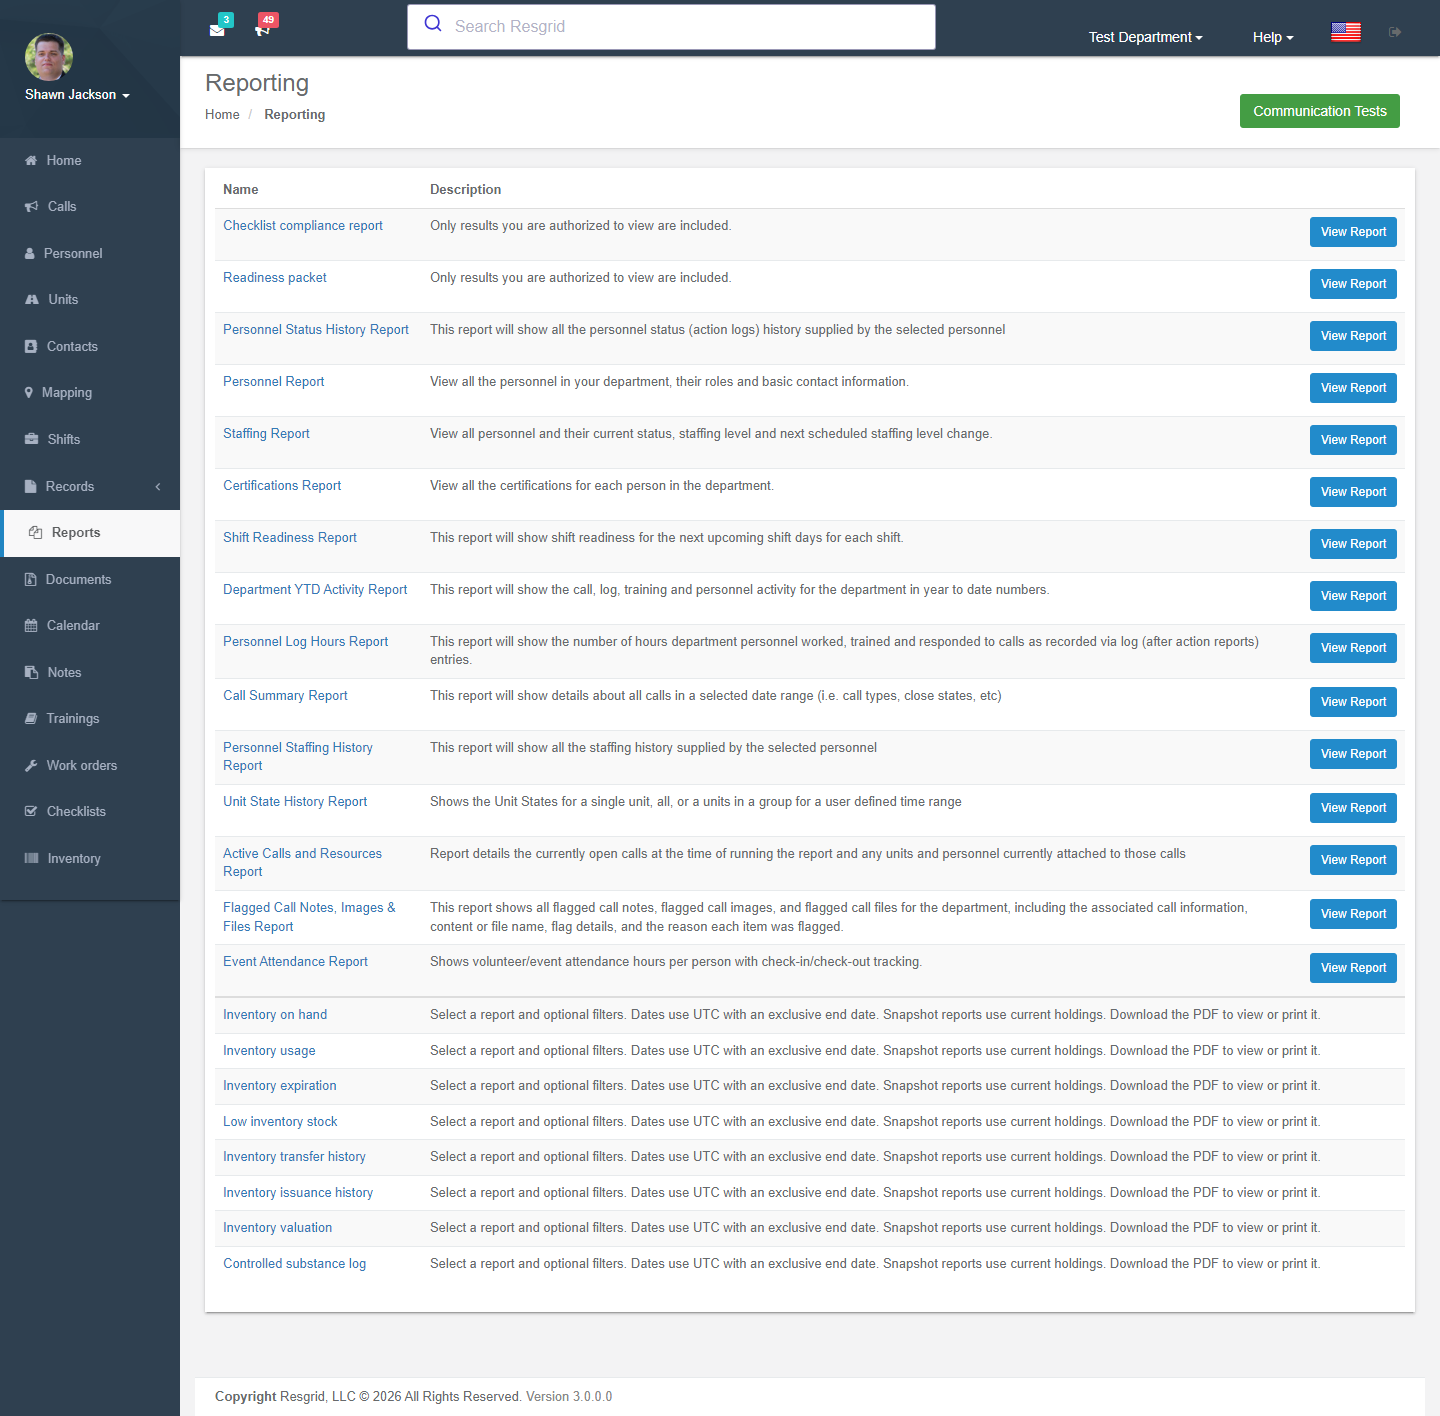
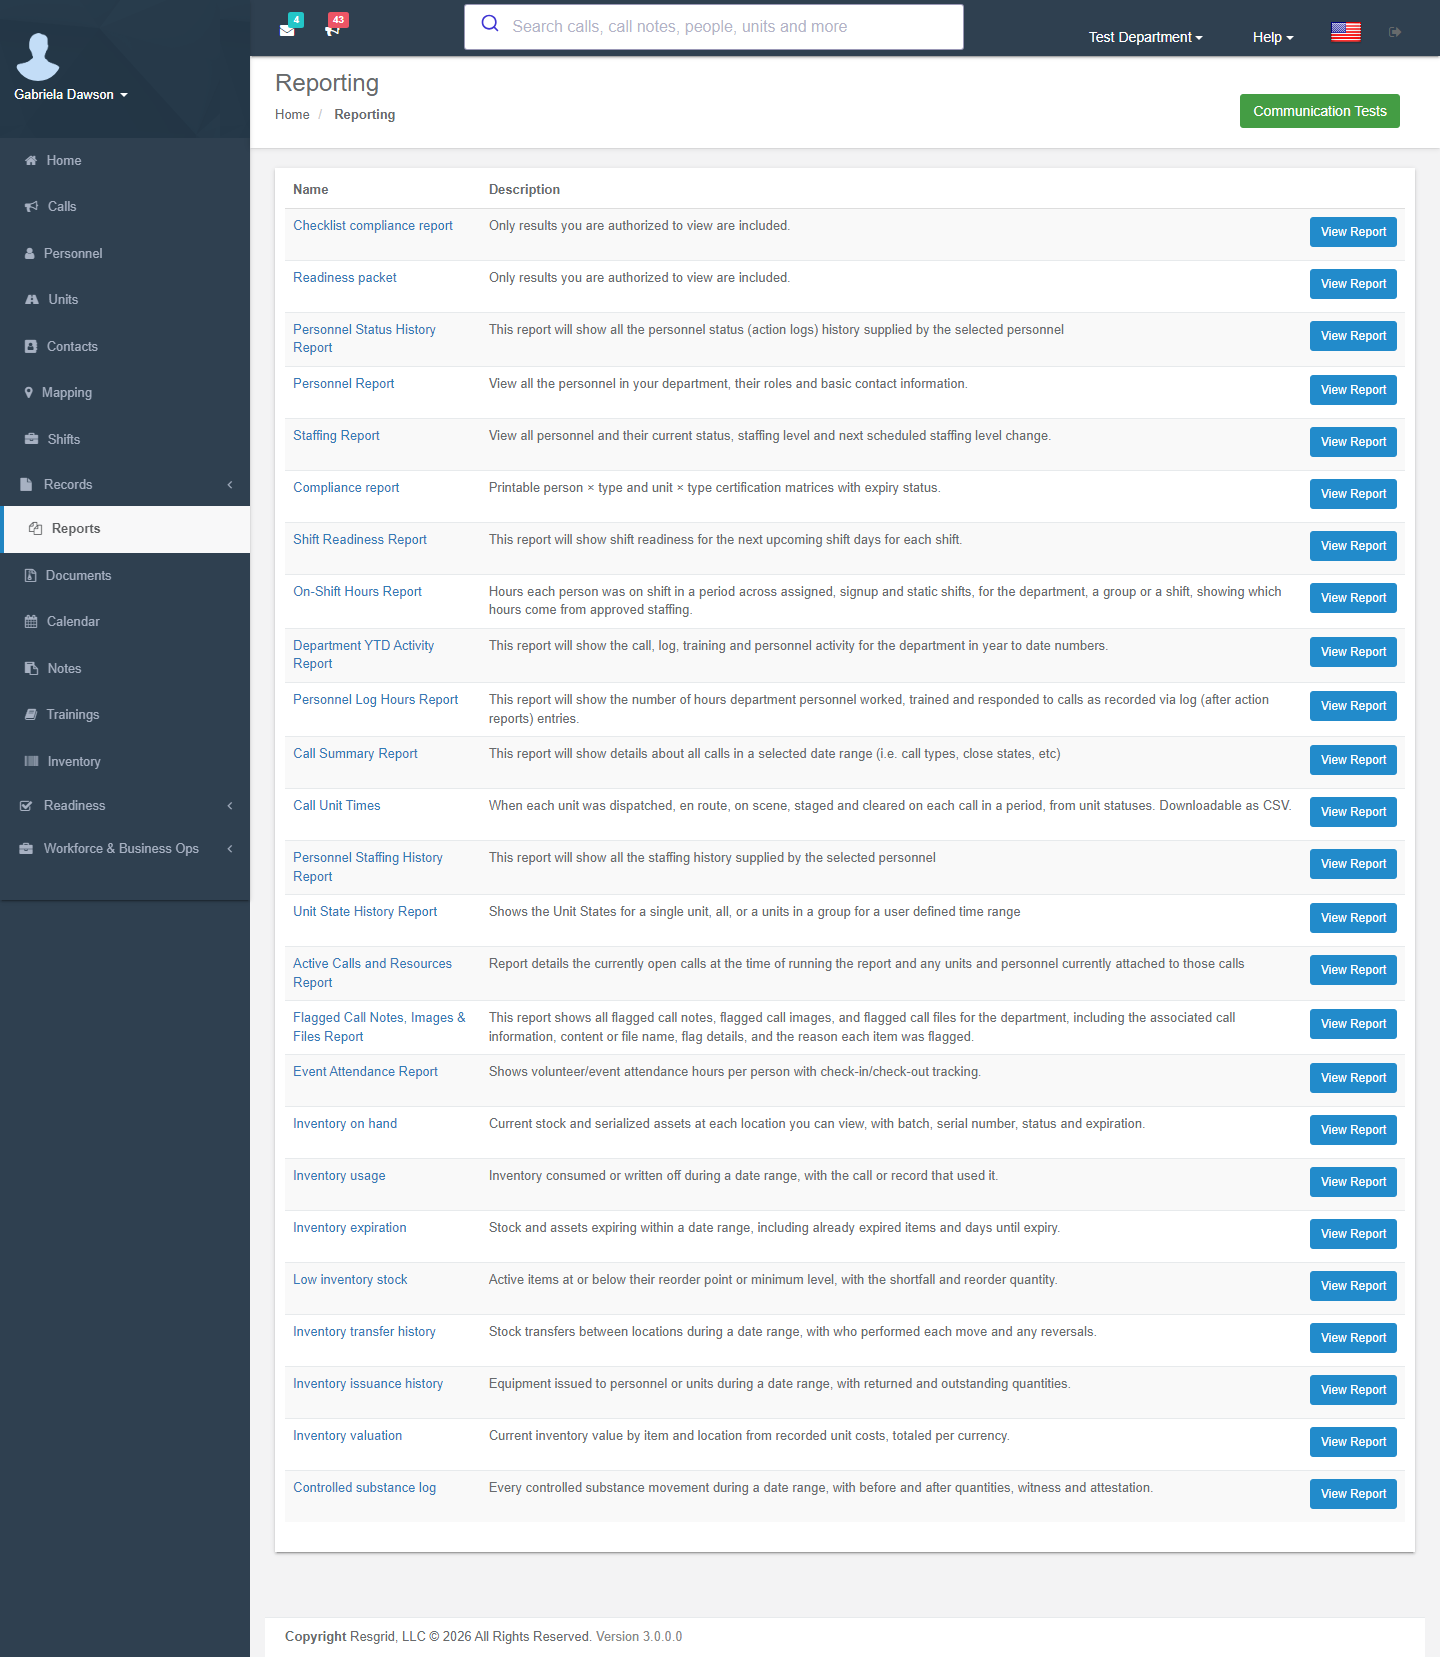
Doc updates

Changed region(s): [[0.0, 0.0, 1.0, 1.0], [0.8125, 0.3418, 0.875, 0.3729], [0.75, 0.6525, 0.7812, 0.6836]]

diff --git a/docs/web-app/shifts.md b/docs/web-app/shifts.md
@@ -7,7 +7,7 @@ title: Shifts
 
 **Shifts** schedule who is on duty. Resgrid supports **assigned** shifts (you put people on the roster), **signup** shifts (members sign up for open slots, with per-group quotas), recurring shift patterns, trades between members and attendance tracking — and shifts can drive dispatch (*dispatch shift instead of group*) and checklist scheduling.
 
-**Left menu → Shifts.** *Your Shifts* shows the signed-in member's upcoming duty; *Shift Staffing* shows who is on for each shift today; administrators create shifts and set the days, groups and quotas. Settings: **Department Settings → Shifts**.
+**Left menu → Shifts.** *Your Shifts* shows the signed-in member's upcoming duty; *Shift Staffing* shows and approves who worked each shift day, past days included ([below](#shift-staffing)); administrators create shifts and set the days, groups and quotas. Settings: **Department Settings → Shifts**.
 
 ![Shifts](/img/web-app/shifts/index.png)
 
@@ -147,14 +147,43 @@ The trade system enables personnel to swap shifts:
 
 ## Shift Staffing
 
-**Authorization:** `Shift_View` policy
+Shift Staffing is where a supervisor records **who actually worked** each shift day. Every shift day is staffed **automatically** from the shift itself until a supervisor **approves** its staffing here; the approved staffing then replaces the automatic one for that day, and the [On-Shift Hours report](/web-app/reports/#on-shift-hours-report) shows which hours come from each.
+
+**Shifts → Shift Staffing**, or **Shift Staffing** at the top of a shift day's page (that opens the editor on the day). Department admins and department-wide shift managers see every shift and static shift; a group admin sees the shifts with one of their groups and staffs only those groups' slots.
 
 ![Shift staffing](/img/web-app/shifts/shift-staffing.png)
 
-The staffing view allows assigning specific personnel to shifts:
-- Admin users see all shifts
-- Non-admin users see only their group's shifts
-- Supports per-day, per-group personnel assignments
+### Staffing by Day
+
+The list at the top shows every shift day and [static shift](/web-app/workshifts/) day in a date range (past days included, up to 62 days at a time), with its type, time, hours, the number of people staffing it and whether its staffing is **Automatic** or **Approved** (with who approved it and when). An approved day also shows how it differs from the shift: *+2 / -0* means two people on the approved staffing are not on the shift's roster and nobody on the roster was left off. Filter it by shift type, and choose **Select** on a row to open that day below.
+
+### Automatic staffing
+
+| Shift type | Automatic staffing is |
+|---|---|
+| **Assigned** | The shift's standing roster, less anyone taken off that day, plus anyone a supervisor added for the day or who took the slot in a completed trade. |
+| **Signup** | Everyone signed up for the day (a signup still waiting for approval does not count), plus supervisor additions and trades. |
+| **Static shift** | The current crew of each of the static shift's units (the people in its unit roles). |
+
+Automatic staffing always reflects the shift as it is set up now, so changing a standing roster or a unit crew also changes the automatic staffing of past days. Approve the days you need recorded exactly.
+
+![A past day still staffed automatically](/img/web-app/shifts/shift-staffing-automatic.png)
+
+### Setting the staffing
+
+1. Choose the **Shift Type** (assigned or signup shift, or a static shift — static shifts are for department-wide supervisors), the shift and the day. Past days can be picked.
+2. **Current Staffing** shows the day's time, whether it is in progress or over, how it is staffed now, who the shift itself puts on the day and, for an approved day, who approved it, the note and the differences from the shift.
+3. Change the people in each picker. Shifts have one picker per group plus *Non-group personnel*; a static shift has one picker per unit, starting from the unit's current crew. A group another supervisor runs is shown but kept as it is.
+4. Choose **Approve Staffing**.
+
+What approving does depends on the day:
+
+- **The day has not ended:** the day's roster follows the approved staffing. People added are put on the day (a pending signup is approved), and people you remove from the pickers are taken off the day. Someone who joined the roster after the staffing was last approved is never taken off without being shown.
+- **The day is over:** the roster is not changed; the approved staffing records who worked it.
+
+**Revert to Automatic** removes the approved staffing of the day so it is staffed automatically again (it needs the whole shift, so a group admin of only some of its groups cannot). The roster is left as it is.
+
+![Static shift staffing by unit](/img/web-app/shifts/shift-staffing-static.png)
 
 ## Shift Calendar
 
@@ -181,7 +210,7 @@ Calendar items include:
 | Department type | How to set it up |
 |---|---|
 | **Volunteer fire** | Signup shifts per station (e.g. *Night duty crew* 18:00–06:00) with a quota of 4 and a required *Driver* role; allow multi-group signup for neighbouring stations; turn on *Dispatch shift instead of group* only once signups are reliable. |
-| **Career fire / EMS** | Assigned shifts on a 24/48 or 48/96 pattern, one shift group per station, personnel assigned by platoon; trades require officer approval. |
+| **Career fire / EMS** | Assigned shifts on a 24/48 or 48/96 pattern, one shift group per station, personnel assigned by platoon; trades require officer approval. The company officer approves each tour's staffing on **Shift Staffing** after it ends (call-backs added, sick leave removed), so the On-Shift Hours report matches payroll. |
 | **SAR** | Signup *on-call* weeks rather than shifts; use the Calendar for trainings. |
 | **Emergency management / EOC** | Assigned 12-hour EOC shifts during activations; roles per section; signup for volunteer positions. |
 | **Security** | Assigned shifts per client site, rotating patterns, trades allowed within the same site group. |
@@ -189,7 +218,9 @@ Calendar items include:
 
 ## Technical reference
 
-`ShiftsController`; routes `/User/Shifts/{Index,NewShift,EditShiftDetails,EditShiftDays,EditShiftGroups,ShiftCalendar,YourShifts,ShiftStaffing,ViewShift,Signup,RequestTrade,ProcessTrade}`; permission `CreateShift`; events `ShiftCreatedEvent`, `ShiftTradeRequestedEvent`, `ShiftTradeFilledEvent`; module switch `ShiftsDisabled`.
+`ShiftsController`; routes `/User/Shifts/{Index,NewShift,EditShiftDetails,EditShiftDays,EditShiftGroups,ShiftCalendar,YourShifts,ShiftStaffing,ClearShiftStaffing,ViewShift,Signup,RequestTrade,ProcessTrade}`; permission `CreateShift`; events `ShiftCreatedEvent`, `ShiftTradeRequestedEvent`, `ShiftTradeFilledEvent`; module switch `ShiftsDisabled`.
+
+Staffing: `IShiftStaffingService` (`ShiftStaffingService`) resolves each occurrence's effective staffing (`ShiftDayStaffing`, source `Automatic` or `Manual`). A shift day's approved staffing is the latest `ShiftStaffings` row (with `ShiftStaffingPersons`) for its shift and date; saving again adds a row, **Revert to Automatic** deletes them. A static shift day's approved staffing is its `WorkshiftFills` rows (`Approved`, `FilledById` = user id since migration M0305). Automatic staffing comes from `ShiftRosterBuilder` (on-duty roster entries) and, for static shifts, `UnitActiveRoles`. Roster changes on save go through `AssignUserToShiftDayAsync` / `RemoveUserFromShiftDayAsync`, so the usual roster-change notifications fire.
 
 ### Data Endpoints
 | Endpoint | Purpose |
@@ -204,6 +235,10 @@ Calendar items include:
 | `GetShiftsForDepartmentJson` | All shifts (id, name) |
 | `GetPersonnelNotOnShiftDay` | Personnel matching role requirements but not signed up |
 | `GetShiftDaysUserIsOn` | Shift days the current user is on |
+| `GetStaffingOverview` | Shift and static shift days in a range (at most 62 days) with their staffing source, for *Staffing by Day* |
+| `GetShiftDayStaffing` | One shift day's automatic and approved staffing, groups and differences |
+| `GetWorkshiftDays` | A static shift's days (department-local dates) |
+| `GetWorkshiftDayStaffing` | One static shift day's staffing per unit |
 
 ### Interactions with Other Modules
 | Module | Interaction |
@@ -215,4 +250,4 @@ Calendar items include:
 | **Calendar** | Shift days displayed on shift calendar |
 | **Workshifts** | Workshift days integrated into shift calendar |
 | **Department** | Multi-group signup and dispatch settings |
-| **Reports** | Shift readiness report analyzes fulfillment |
+| **Reports** | Shift readiness report analyzes fulfillment; the On-Shift Hours report totals hours from each day's staffing |

diff --git a/docs/web-app/reports.md b/docs/web-app/reports.md
@@ -82,6 +82,33 @@ Analyzes upcoming shifts for operational readiness:
 - Delta (surplus/deficit)
 - Readiness status
 
+### On-Shift Hours Report
+
+Each person's hours on shift for a period across **assigned**, **signup** and **static** shifts, for the whole department, one group or one shift — with every hour marked as coming from **approved** staffing (set by a supervisor on [Shift Staffing](/web-app/shifts/#shift-staffing)) or **automatic** staffing (worked out from the shift). Use it for payroll, LOSAP/volunteer-hour credit and duty-hour compliance.
+
+**Reports → On-Shift Hours Report.** Pick the start and end (time is counted up to the end, which is not included; the default is the current month) and what the report is for:
+
+| Report for | Counts |
+|---|---|
+| **Entire department** | Everyone on every shift and static shift day. |
+| **A group** | People filling a slot for the group or one of its child groups, plus the group's members on slots that have no group (a static shift's slots belong to the unit's station). A member filling another group's slot counts for that group, not theirs. |
+| **A shift** | One assigned, signup or static shift. |
+
+![On-Shift Hours report parameters](/img/web-app/reports/on-shift-hours-params.png)
+
+The report shows:
+
+- **Totals** — total, approved and automatic hours, people, shift days and approved shift days.
+- **Personnel** — per person: shifts, total hours, approved and automatic hours, hours on assigned, signup and static shifts, and a staffing badge (*Approved*, *Automatic* or *n of m approved*). Rows with any approved hours have a green edge.
+- **Shift Days** — every shift day in the period with its time, hours, people and staffing; approved days show who approved them, when, and how the approved staffing differs from the shift (*+added / -left off*). **Open** jumps to the day on Shift Staffing.
+- **Detail by Person** — each person's shift days with the group or unit they filled. A shift that crosses the start or end of the period counts only the part inside it (marked \*).
+
+**Download CSV** gives the detail rows (ID, name, group, shift, type, group/unit, start, end, hours, staffing) for a spreadsheet or payroll import. The report and the CSV only list members the signed-in user may see.
+
+![On-Shift Hours report](/img/web-app/reports/on-shift-hours.png)
+
+Counting rules: a person counts once per shift day even if they fill two slots; two different shifts that overlap both count. A day nobody has approved uses the shift's automatic staffing as the shift is set up now, so approve the days that need an exact record before relying on the report for payroll.
+
 ### Department Activity Report
 
 Annual activity overview:
@@ -206,6 +233,7 @@ Several reports have parameter selection pages that allow filtering:
 | Action Logs | Group, user, date range |
 | Call Summary | Date range, group (optional) |
 | Call Unit Times | Date range (or one call, from the call's page) |
+| On-Shift Hours | Date range; entire department, a group or a shift (assigned, signup or static) |
 
 All parameter pages respect the **visibility matrix** — only showing personnel/groups the user has permission to view.
 
@@ -214,7 +242,7 @@ All parameter pages respect the **visibility matrix** — only showing personnel
 | Department type | How to set it up |
 |---|---|
 | **Volunteer fire** | Schedule the *Personnel hours* and *Call summary* reports monthly to the chief and treasurer (LOSAP points, run reimbursements); *Certification compliance* quarterly to the training officer. |
-| **Career fire** | *Unit state history* and *Personnel staffing history* for payroll reconciliation; *Upcoming shift readiness* each morning. |
+| **Career fire** | *Unit state history* and *Personnel staffing history* for payroll reconciliation; *On-Shift Hours* per pay period (approve each tour's staffing first) exported as CSV for payroll; *Upcoming shift readiness* each morning. |
 | **EMS** | *Call summary* by type for the medical director; *Call unit times* status history CSV for hospital turnaround and time committed per ambulance / MUG; *Event attendance* for CE credit. |
 | **SAR** | *Personnel hours* per mission for volunteer-hour grants; *Department activity* YTD for the board. |
 | **Emergency management** | *Action logs* during activations for the after-action report; *Event attendance* for exercises. |
@@ -222,7 +250,7 @@ All parameter pages respect the **visibility matrix** — only showing personnel
 
 ## Technical reference
 
-`ReportsController` (+ `ChecklistReportsController`); routes `/User/Reports/{Index,PersonnelReport,StaffingReport,CertificationsReport,CertificationComplianceReport,UpcomingShiftReadinessReport,DepartmentActivityReport,PersonnelHoursReportParams,PersonnelStaffingHistoryReportParams,UnitStateHistoryReportParams,ActionLogsParams,CallSummaryReportParams,CallUnitTimesReportParams,CallUnitTimesReport,CallUnitTimesReportCsv,CallUnitTimesHistoryCsv,ActiveCallsResourcesReport,FlaggedCallNotesReportParams,EventAttendanceReportParams,ChecklistComplianceReport,LogReport}`; scheduled delivery via `ProfileController.Reporting` and the worker; module switch `ReportsDisabled`. Call Unit Times reads `ICallStatusAttributionService.GetUnitTimelinesForCallsAsync` (`CallUnitTimeline.Build`: the call's record plus `StatusDestinationSources.FollowOn` (6) copies, never stored, until `UnitCallInvolvement.HasFinishedCall`) and `CallUnitTimesCalculator`.
+`ReportsController` (+ `ChecklistReportsController`); routes `/User/Reports/{Index,PersonnelReport,StaffingReport,CertificationsReport,CertificationComplianceReport,UpcomingShiftReadinessReport,DepartmentActivityReport,PersonnelHoursReportParams,PersonnelStaffingHistoryReportParams,UnitStateHistoryReportParams,ActionLogsParams,CallSummaryReportParams,CallUnitTimesReportParams,CallUnitTimesReport,CallUnitTimesReportCsv,CallUnitTimesHistoryCsv,ActiveCallsResourcesReport,FlaggedCallNotesReportParams,EventAttendanceReportParams,ChecklistComplianceReport,LogReport,OnShiftHoursReportParams,OnShiftHoursReport,OnShiftHoursReportCsv}`; scheduled delivery via `ProfileController.Reporting` and the worker; module switch `ReportsDisabled`. Call Unit Times reads `ICallStatusAttributionService.GetUnitTimelinesForCallsAsync` (`CallUnitTimeline.Build`: the call's record plus `StatusDestinationSources.FollowOn` (6) copies, never stored, until `UnitCallInvolvement.HasFinishedCall`) and `CallUnitTimesCalculator`.
 
 ### Internal Report Generation
 The `InternalRunReport` endpoint is an **anonymous access** endpoint intended for system-internal use (e.g., scheduled report delivery). It supports generating:
@@ -241,7 +269,7 @@ The `InternalRunReport` endpoint is an **anonymous access** endpoint intended fo
 | **Calls** | Call data for summary and activity reports |
 | **Personnel** | Personnel data for roster and hours reports |
 | **Units** | Unit state data for history reports |
-| **Shifts** | Shift data for readiness report |
+| **Shifts** | Shift data for readiness report; shift, signup and static shift staffing for On-Shift Hours (`IShiftStaffingService.GetOnShiftHoursAsync`, `OnShiftHoursCalculator`; at most 366 days per run) |
 | **Logs** | Work log data for hours and activity reports |
 | **Trainings** | Training data for activity and hours reports |
 | **Custom Statuses** | Status name resolution throughout |

diff --git a/docs/web-app/workshifts.md b/docs/web-app/workshifts.md
@@ -22,8 +22,8 @@ Workshifts define fixed time blocks with assigned units, differing from the dyna
 | Field | Required | Description |
 |-------|----------|-------------|
 | Name | Yes | Workshift name |
-| Start Time | Yes | Shift start (converted to department timezone) |
-| End Time | Yes | Shift end (defaults to next day) |
+| Start Time | Yes | Shift start, in department time (stored in UTC) |
+| End Time | Yes | Shift end, in department time (stored in UTC) |
 | Units Assigned | No | Units assigned to this workshift |
 
 ### Unit Assignment
@@ -42,11 +42,19 @@ Validates department ownership. Updates:
 
 **Authorization:** `Shift_View` policy
 
-The day view shows:
+A workshift covers one continuous period; its days are that period cut into 24-hour pieces from the start time (the last day ends at the end time). The day view shows, in department time:
 - Parent workshift details
 - Department units
 - Assigned personnel with limits
 - Ownership chain validation (day → shift → department)
+
+![Static shift day](/img/web-app/workshifts/view-day.png)
+
+## Staffing a workshift
+
+A workshift schedules units, so its people come from the units: each day is staffed **automatically** by the current crew of every unit on it (the people in the unit's roles). To record who actually crewed the units on a day, a department-wide supervisor opens **Shifts → Shift Staffing**, chooses **Static Shift**, the workshift and the day, adjusts the people under each unit and chooses **Approve Staffing**; **Revert to Automatic** goes back to the unit crews. See [Shift Staffing](/web-app/shifts/#shift-staffing).
+
+Each person on a workshift day counts for that day's hours in the [On-Shift Hours report](/web-app/reports/#on-shift-hours-report) (a 07:00–19:00 three-day workshift gives two 24-hour days and a 12-hour last day), counted for the unit's station when a group report is run.
 
 ## Deleting Workshifts
 
@@ -71,3 +79,5 @@ Requires confirmation via a dedicated confirmation page. Full audit trail record
 | **Units** | Units are assigned to workshifts |
 | **Personnel** | Personnel loaded for day view |
 | **Department** | Timezone used for time conversion |
+| **Shift Staffing** | Approved day staffing stored as `WorkshiftFills` (`Approved`, `FilledById` = user id); automatic staffing from `UnitActiveRoles` |
+| **Reports** | Workshift days count toward the On-Shift Hours report |
